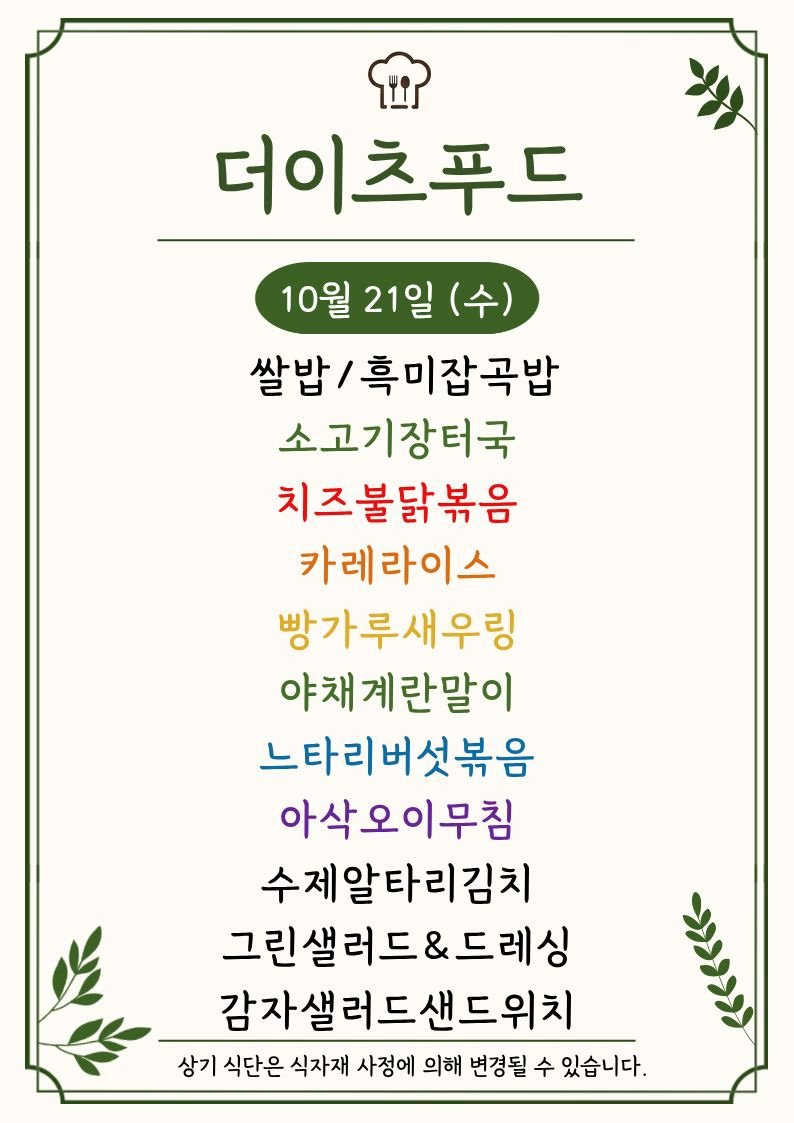
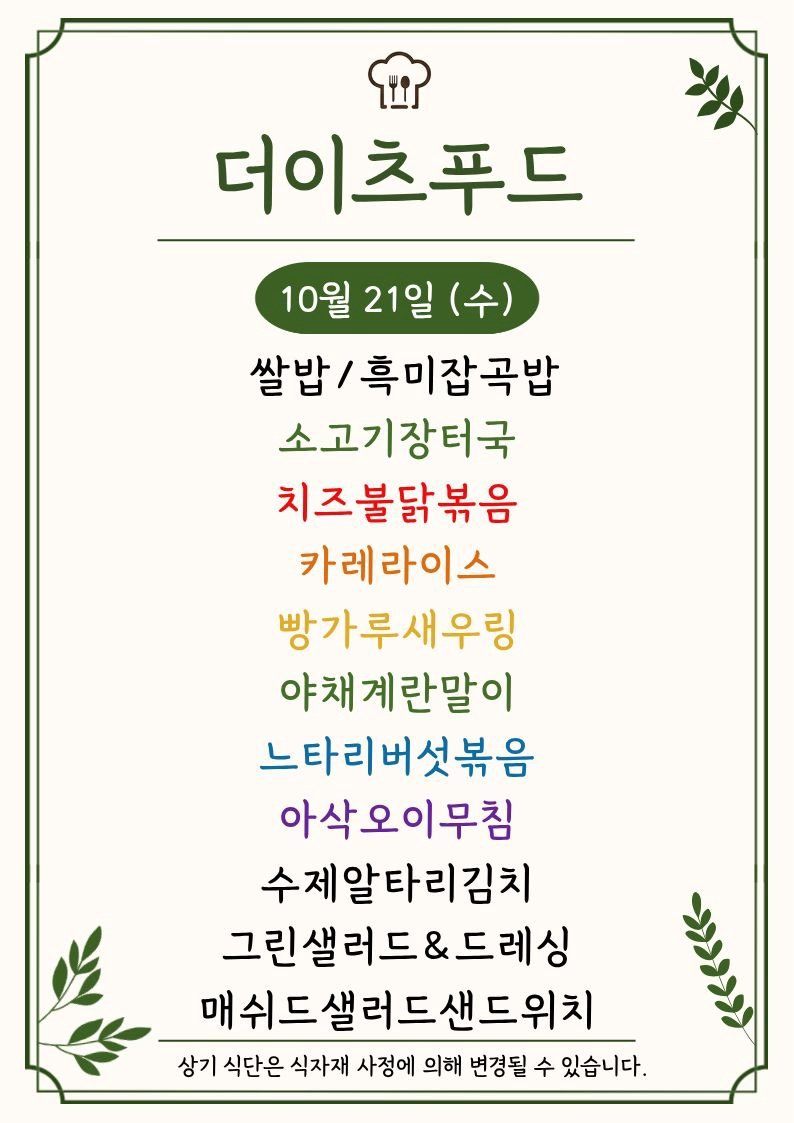
Update menu board assets

Changed region(s): [[0.2418, 0.8727, 0.7557, 0.935]]

diff --git a/menu-today/index.html b/menu-today/index.html
@@ -209,7 +209,7 @@
 
     <section class="meta-bar">
       <div class="meta-card"><div class="meta-label">기준 날짜</div><div class="meta-value">2026년 10월 21일 수요일</div></div>
-      <div class="meta-card"><div class="meta-label">최종 가져온 시간</div><div class="meta-value">2026-10-21 10:33:34</div></div>
+      <div class="meta-card"><div class="meta-label">최종 가져온 시간</div><div class="meta-value">2026-10-21 10:47:44</div></div>
       <div class="meta-card"><div class="meta-label">확인 완료</div><div class="meta-value">9개 식당</div></div>
       <div class="meta-card"><div class="meta-label">준비중</div><div class="meta-value">3개 채널</div></div>
     </section>
@@ -255,7 +255,7 @@
             <div class="sub">디폴리스지식산업센터</div>
           </div>
         </div>
-        <div class="menu-inline-image"><img src="./images/dipolis.png" alt="디폴리스 구내식당 식단 이미지"></div><ul><li>제육고추장불고기</li><li>구수한 누릉지 / 참쌀 닭죽</li><li>부추산적 조림 / 오이 양파 무침</li><li>무채 콩나물국</li><li>두부 양념 조렴도토리묵 무침</li><li>양배추 야채 샐러드</li><li>맛있게드세요 .현</li><li>계란 햄 aS</li><li>제육 고</li><li>가리비 오징어 스틱</li></ul>
+        <div class="menu-inline-image"><img src="./images/dipolis.png" alt="디폴리스 구내식당 식단 이미지"></div><ul><li>제육 고추장 불고기</li><li>구수한 누릉지 / 참쌀 닭죽</li><li>부추산적 조림 / 오이 양파 무침</li><li>무채 콩나물국</li><li>두부 양념 조렴도토리묵 무침</li><li>양배추 야채 샐러드</li><li>맛있게드세요 .현</li><li>계란 햄 aS</li><li>제육 고</li><li>가리비 오징어 스틱</li></ul>
       </article>
 
       <article class="restaurant-card">

diff --git a/guro-menu/index.html b/guro-menu/index.html
@@ -32,7 +32,7 @@
   </header>
   <section class="meta">
     <div><small>기준 날짜</small><strong>2026년 10월 21일 수요일</strong></div>
-    <div><small>최종 갱신</small><strong>2026-10-21 10:33:48</strong></div>
+    <div><small>최종 갱신</small><strong>2026-10-21 10:47:56</strong></div>
     <div><small>등록 식당</small><strong>5개</strong></div>
   </section>
   <div class="notice">공개 카카오 채널의 메뉴 이미지를 자동 수집하고 OCR로 정리합니다. 텍스트에 오타가 있을 수 있으니 식단 이미지를 함께 확인해 주세요.</div>
@@ -76,7 +76,7 @@
         </div>
         <img class="menu-image" src="./images/the-eats-food.png" alt="더이츠푸드 식단 이미지" loading="lazy">
         
-        <ul><li>쌀밥/흑미잡곡밥</li><li>소고기장터국</li><li>치즈불닭볶음</li><li>카레라이스</li><li>야채계란말이</li><li>느타리버섯볶음</li><li>아삭오이무침</li><li>수제알타리김치 y</li><li>그린샐러드&amp;드레싱 = Y</li><li>감자샐러드샌드위치 Y%</li></ul>
+        <ul><li>쌀밥/흑미잡곡밥</li><li>소고기장터국</li><li>치즈불닭볶음</li><li>카레라이스</li><li>야채계란말이</li><li>느타리버섯볶음</li><li>아삭오이무침</li><li>수제알타리김치</li><li>그린샐러드&amp;드레싱 = Y</li><li>매쉬드샐러드샌드위치</li></ul>
       </article>
 
       <article class="restaurant-card">
